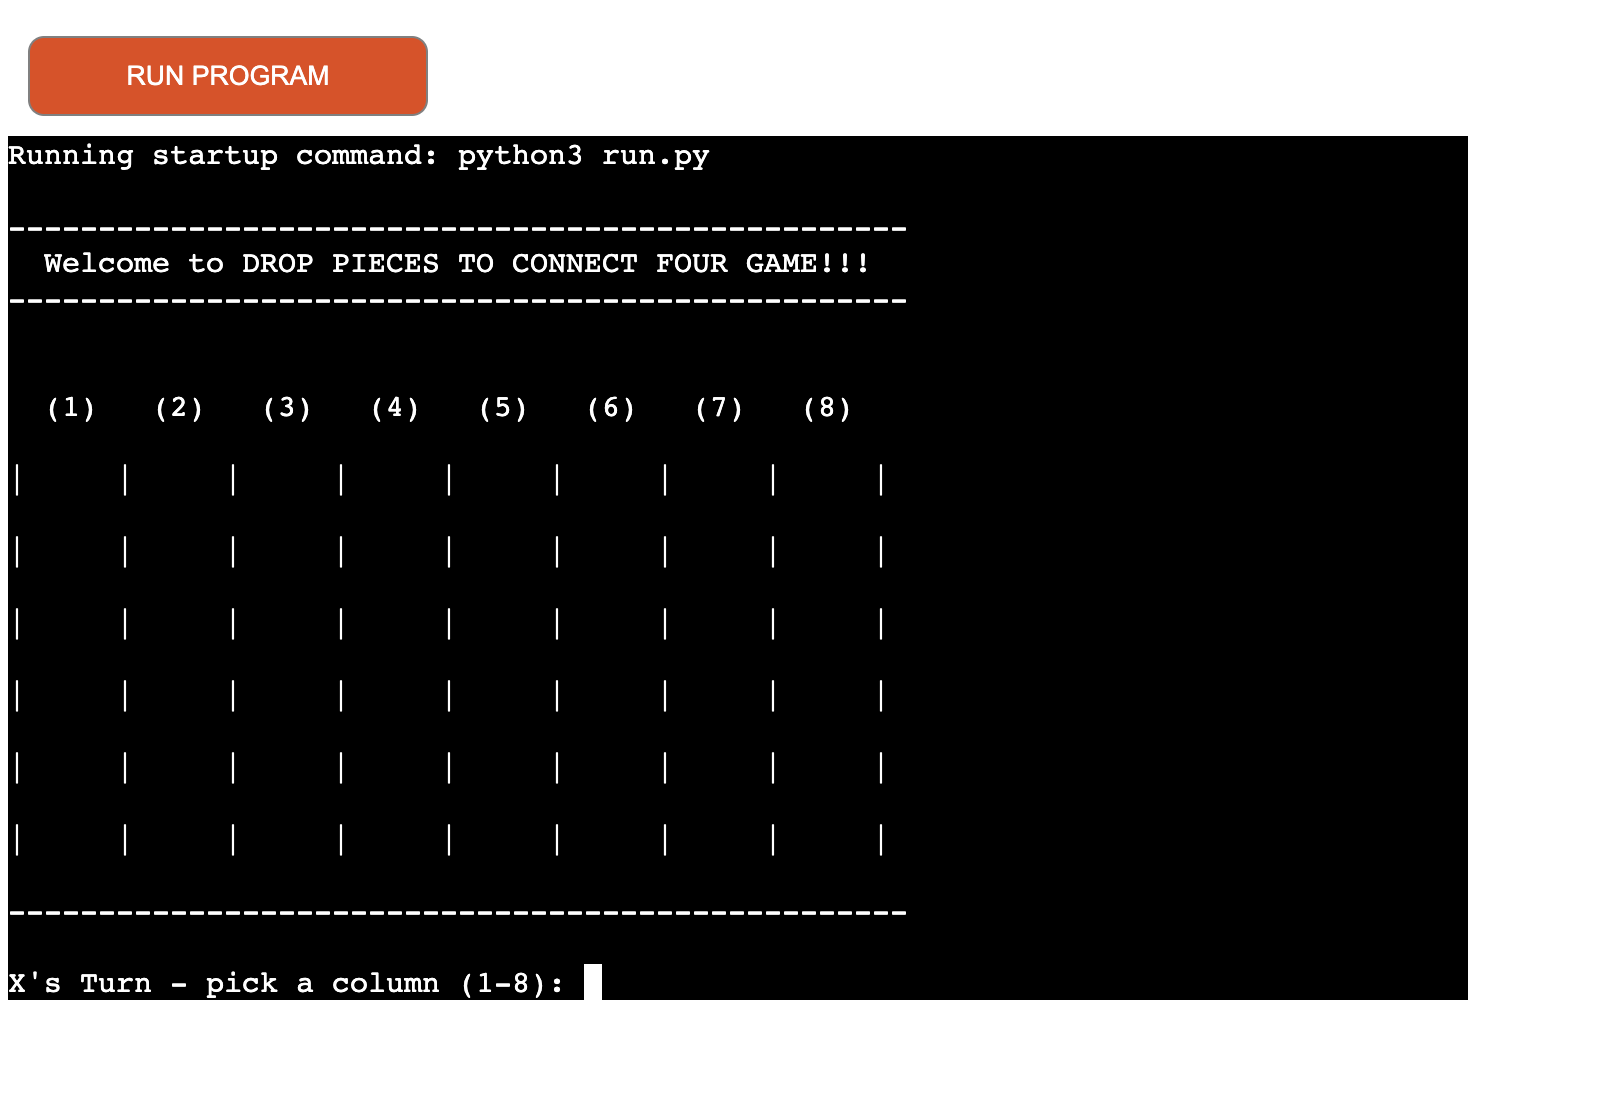
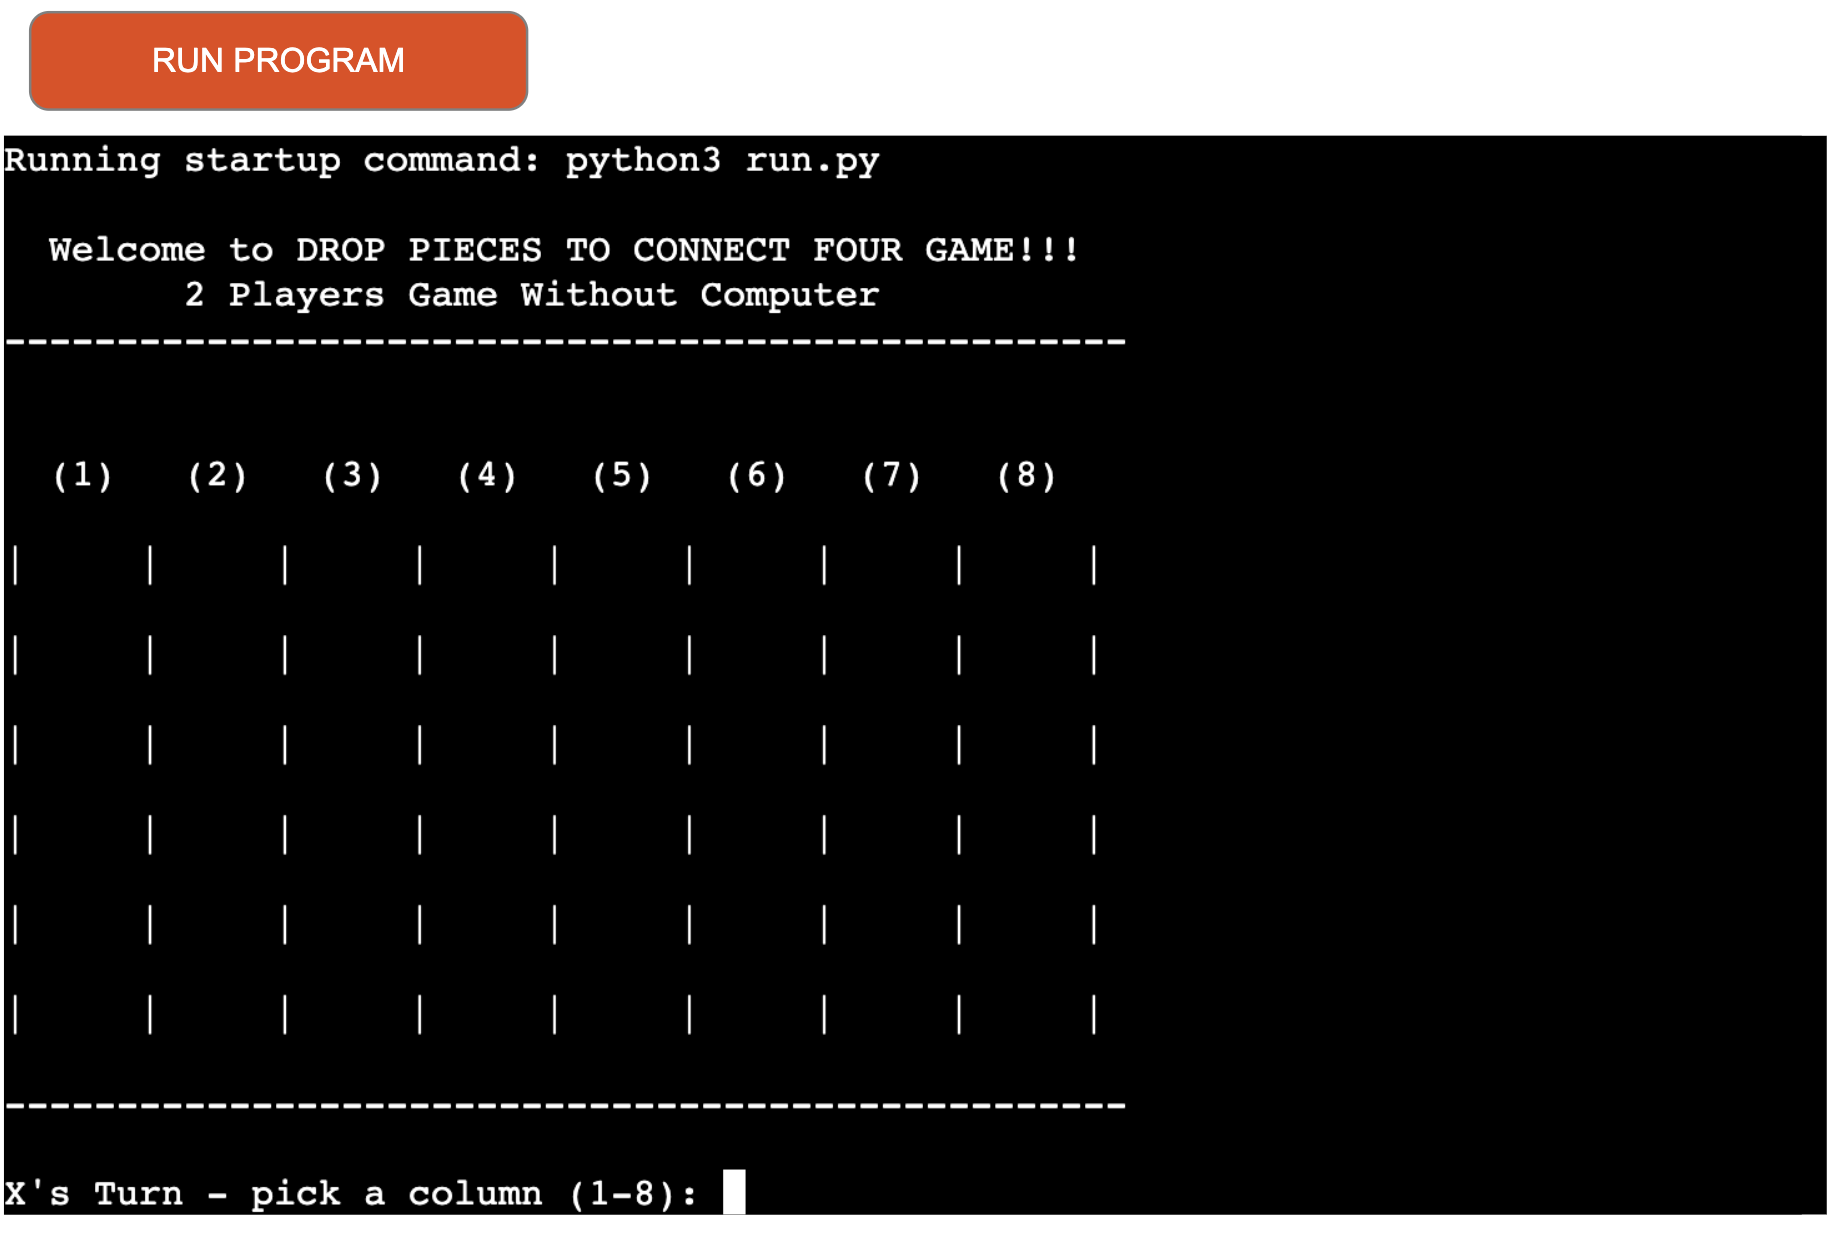
fix pep8 bugs, update screenshots and read me

diff --git a/run.py b/run.py
@@ -1,26 +1,30 @@
 ROW_COUNT = 6      # global variable
 COLUMN_COUNT = 8   # global variable
 
+
 # create board object (8 rows by 12 columns)
 class Board():
+
     # store state of the game and handle users input until there is a winner
     def __init__(self):
         """
         Instance variable
         Create board array
         """
-        self.board = [[' ' for _ in range(COLUMN_COUNT)] for _ in range(ROW_COUNT)]
-        self.turns = 0 # track turns that have been played and last move input
-        self.last_move = [-1, -1] # [r, c] # [r, c] (invalid move because we haven't played anything yet)
-
+        self.board = \
+            [[' ' for _ in range(COLUMN_COUNT)] for _ in range(ROW_COUNT)]
+        # track turns that have been played and last move input
+        self.turns = 0
+        # [r, c] invalid move because we haven't played anything yet
+        self.last_move = [-1, -1]
 
     def print_board(self):
         """
-        Reusable function to display the board 
+        Reusable function to display the board
         to the terminal as the game goes on
         """
         # number the columns
-        print("\n") # new line
+        print("\n")  # new line
         # display what number this column is and start counting at 1
         for r in range(COLUMN_COUNT):
             print(f"  ({r+1}) ", end="")
@@ -32,10 +36,9 @@ class Board():
             for c in range(COLUMN_COUNT):
                 print(f"  {self.board[r][c]}  |", end="")
             print("\n")
-        # python trick to print 50 dashes all next to each other  
+        # python trick to print 50 dashes all next to each other
         print(f"{'-' * 50}\n")
 
-    
     def which_turn(self):
         """
         Switching between player X and player O
@@ -43,14 +46,12 @@ class Board():
         players = ['X', 'O']
         return players[self.turns % 2]
 
-    
     def in_bounds(self, r, c):
         """
         Test row column coordinates is within our 2D array
         """
         return (r >= 0 and r < ROW_COUNT and c >= 0 and c < COLUMN_COUNT)
 
-    
     def turn(self, column):
         """
         Turn function
@@ -58,40 +59,41 @@ class Board():
         # Search bottom up for an open slot
         for i in range(ROW_COUNT-1, -1, -1):
             if self.board[i][column] == ' ':
-                self.board[i][column] = self.which_turn() # execute this turn and put X or O here
-                self.last_move = [i, column] # save this last move to the spot
+                # execute this turn and put X or O here
+                self.board[i][column] = self.which_turn()
+                self.last_move = [i, column]  # save this last move to the spot
 
-                self.turns += 1 # increment the turn that has been played
-                return True # to indicate that was a valid move
+                self.turns += 1  # increment the turn that has been played
+                return True  # to indicate that was a valid move
 
         return False
-
 
     def check_winner(self):
         """
         Check winner function
         """
-        last_row = self.last_move[0] # tracking
-        last_col = self.last_move[1] # tracking
-        last_letter = self.board[last_row][last_col] # tracking
+        last_row = self.last_move[0]  # tracking
+        last_col = self.last_move[1]  # tracking
+        last_letter = self.board[last_row][last_col]  # tracking
 
         # [r, c] direction, matching letter count, locked bool
-        directions = [[[-1, 0], 0, True], # check upward
+        directions = [[[-1, 0], 0, True],  # check upward
                       [[1, 0], 0, True],  # check upward
-                      [[0, -1], 0, True], # check downard
+                      [[0, -1], 0, True],  # check downard
                       [[0, 1], 0, True],  # check downard
-                      [[-1, -1], 0, True],# check left
+                      [[-1, -1], 0, True],  # check left
                       [[1, 1], 0, True],  # check right
-                      [[-1, 1], 0, True], # check diagonally
-                      [[1, -1], 0, True]] # check diagonally
-        
+                      [[-1, 1], 0, True],  # check diagonally
+                      [[1, -1], 0, True]]  # check diagonally
+
         # Search outwards looking for matching pieces
         for a in range(4):
             for d in directions:
                 r = last_row + (d[0][0] * (a+1))
                 c = last_col + (d[0][1] * (a+1))
 
-                if d[2] and self.in_bounds(r, c) and self.board[r][c] == last_letter:
+                if (d[2] and self.in_bounds(r, c) and
+                        self.board[r][c] == last_letter):
                     d[1] += 1
                 else:
                     # Stop searching in this direction
@@ -102,7 +104,7 @@ class Board():
             if (directions[i][1] + directions[i+1][1] >= 3):
                 self.print_board()
                 print(f"{last_letter} is the winner!")
-                return last_letter   
+                return last_letter
 
         # Did not find any winners
         return False
@@ -122,29 +124,28 @@ def play():
         print("--------------------------------------------------")
         game.print_board()
 
-
         # Ask the user for input, but only accept valid turns
         valid_move = False
         while not valid_move:
             try:
-                user_move = int(input(f"{game.which_turn()}'s Turn - pick a column (1-{COLUMN_COUNT}): "))
-                if user_move <= 0 or user_move > 8:
+                user_move = int(input(f"{game.which_turn()}'s Turn - \
+pick a column (1-{COLUMN_COUNT}): "))
+                if user_move <= 0 or user_move > (COLUMN_COUNT):
                     print(f"Please choose a number from 1 and {COLUMN_COUNT}")
-                else:    
-                    valid_move = (game.turn(int(user_move)-1))    
+                else:
+                    valid_move = (game.turn(int(user_move)-1))
             except ValueError:
                 print(f"Please choose a number from 1 and {COLUMN_COUNT}")
 
-                            
         # End the game if there is a winner
         game_over = game.check_winner()
-        
         # End the game if there is a tie
         if not any(' ' in x for x in game.board):
             print("The game is a draw..")
             return
 
-#set up game loop with python trick that execute play function when file is run
+
+"""set up game loop with python trick that
+executes play function when file is run"""
 if __name__ == '__main__':
     play()
-

diff --git a/README.md b/README.md
@@ -1,7 +1,7 @@
 # CONNECT FOUR GAME
 Connect four game  is a Python terminal game. which runs in the Code Institute mock terminal on Heroku. 2 Users (X or O) can try to beat each other by dropping and connecting four pieces whether vertically or horizontally or diagonally. The first player to connect four will win.
 
-Here Is the live version of my project
+Here Is the live version of my project:
 
 ![](/screenshots/a.png)
 
@@ -14,66 +14,74 @@ The winner is the player who connects four four first whether vertically or hori
 
 ## Features
 ### Existing Features
-- Random 6 row X 8 column board generation
+- Flexible 6 row X 8 column board generation
 - Marked up board with columns number on the top
 
 ![](/screenshots/b.png)
 
-- Play against another player
+- Play against another player without computer
 - Accept users input
 ![](/screenshots/c.png)
 ![](/screenshots/d.png)
 
 - Input validation and error-checking
-1. You cannot enter strings or texts
+1. You cannot enter string
 ![](/screenshots/e.png)
-2. You must enter numbers from 0 to 8 only
+2. You must enter numbers from 1 to 8 only
 ![](/screenshots/f.png)
-3. Zero, negative values, letter or any special character values are not acceptable
+3. Zero, negative values, or any special character values are not acceptable
 ![](/screenshots/i.png)
-
+4. Game saves the last move of any player on the top of the title of the game
+![](/screenshots/j.png)
 - data maintained in class instances
+5. Win and draw messages
+![](/screenshots/h.png)
+![](/screenshots/k.png)
 
 ### Future Features
 - Allow more players to play the game
-- bigger size board with more players 
+- Add difficulty levels
+- Add player VS computer option
 
 ## Data Model 
 I decided to use a Board class as my model. The game creates the instance of the Board class. 
 The Board class prints the slots of the board, rotate the turn of the player, check the position of the dropped piece. check the possibility of win against that board in all directions.
-I used a python trick to print 64 dashes all next to each other using `print` method.
+I used a python trick to print 50 dashes all next to each other using `print` method.
 
 ## Testing
-[ have manually tested this proiect by doing the following:
+Have manually tested this proiect by doing the following:
 - passed the code through a PE8 linter and confirmed there are no problems
-- Given invalid inouts: strings when numbers are expected out of bounds inputs.
+- Given invalid inputs: strings when numbers are expected out of bounds inputs.
 - Tested in my local terminal and the Code Institute Heroku terminal
 
 ## Bugs 
-When I wrote the proiect. I was aetting index errors because I had forgotten that the lists are zero indexed. I fixed
-this br addina size _ 1 where necessary
-properly
+- When I wrote the project. I had an issue with validating zero and negative entries. I fixed
+this by using if conditional statment
+- E501 error line too long by PEP8. I fixed it using line continuation operator \ and parenthesis()
 
 ## Remaining Bugs
-• No bugs remaining
+No bugs remaining
 
 ## Validator Testing
 - PEP8
 No errors were returned from PEP8.online.com
+![](/screenshots/l.png)
 
 ## Deployment
 This proiect was deployed using Code Institute's mock terminal for Heroku.
 
-Stens for deplovment
-o Fork or clone this renocitor.
-a Crosto a nom Horobu onn
-o link the Herokuann to the renociton
-click on Donlou
+- Steps for deployment
+1. Fork or clone this repository
+2. Create a new Heroku app
+3. Set the buildpacks to Python and NodeJS in that order
+4. Link the Herokuapp to the repository
+5. Click on Deploy
 
-Credits
+## Credits
 - Code Institute for the deployment terminal
 - Wikipedia for the details of the connect four game
 - My mentor Lauren Nicole
 - freeCodeCamp.org
 - stackoverflow.com
 - quora.com
+- doingmathwithpython.github.io
